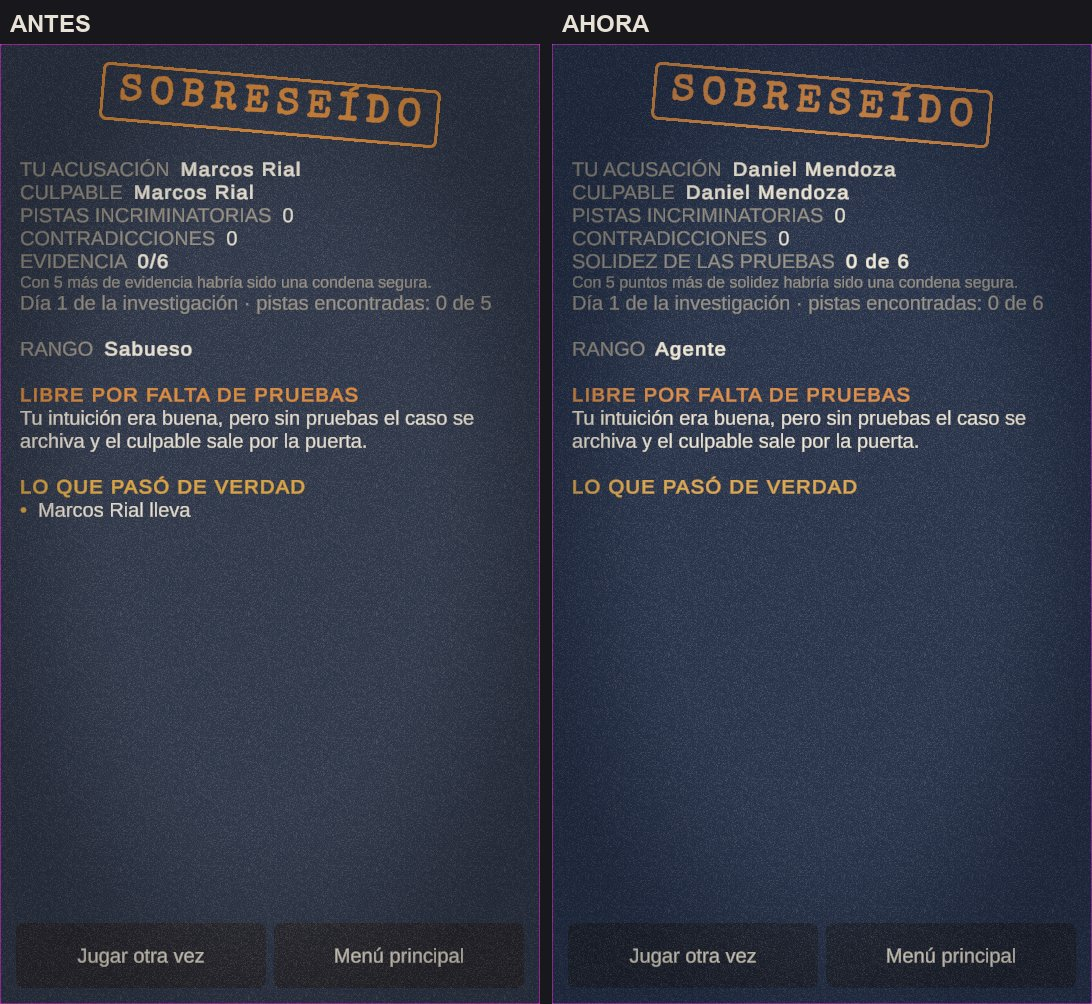
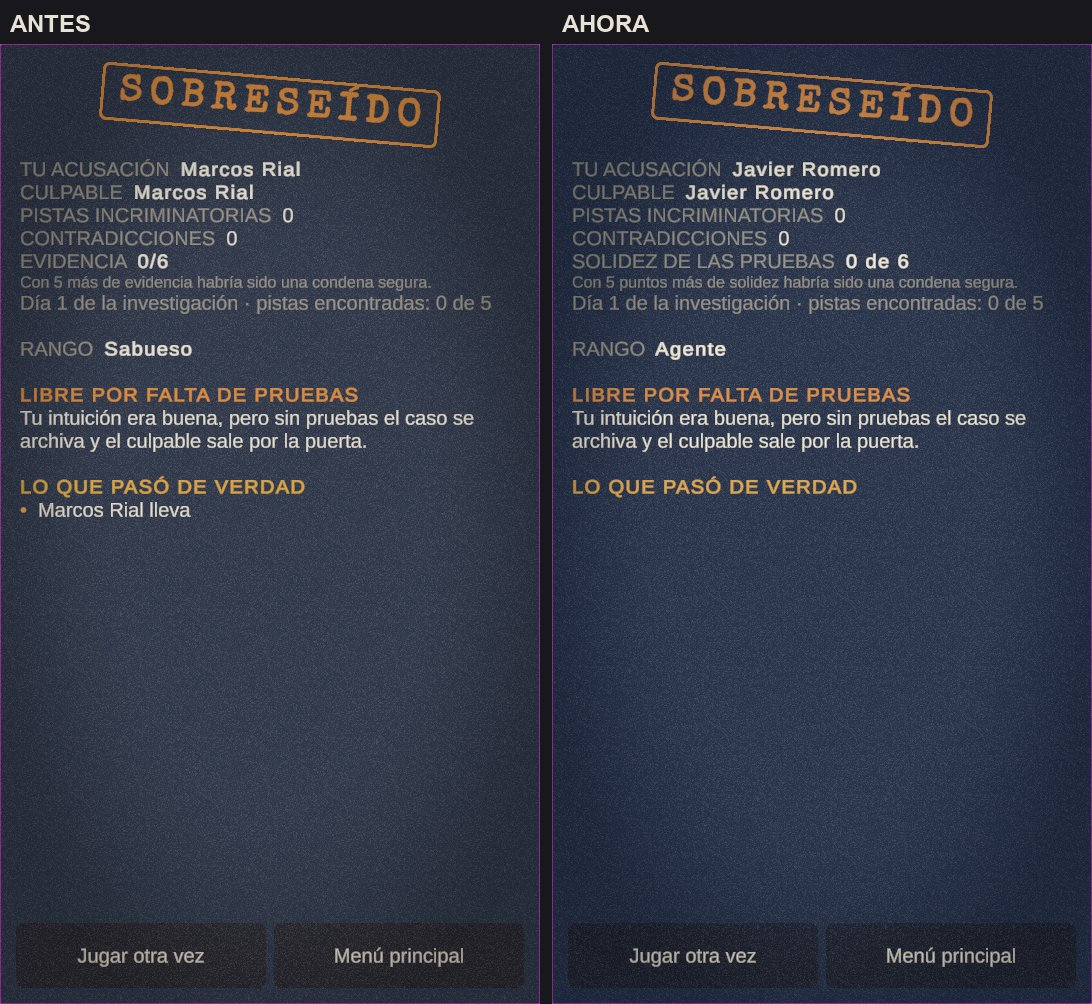
Gallery: sheet 24 (morning reports in the notebook); report gallery table
Claude-Session: https://claude.ai/code/session_01KEoVtmbGPQRPnhweMQeCc5

Changed region(s): [[0.6227, 0.1544, 0.8407, 0.2161]]

diff --git a/Tools/make_gallery_dia3.py b/Tools/make_gallery_dia3.py
@@ -20,7 +20,7 @@ SCREENS = [
     ('12_dialogo', 'dialogo_reiniciar'), ('13_texto_grande', 'texto_grande_interrogatorio'),
     ('14_alto_contraste', 'alto_contraste_interrogatorio'), ('15_emocion', 'emocion_nervioso_1500'),
     ('16_pista', 'pista_1800'), ('17_contradiccion', 'contradiccion_1900'), ('18_tutorial', 'tutorial_preguntar'),
-    ('21_ficha_policial', 'veredicto_ficha'),
+    ('21_ficha_policial', 'veredicto_ficha'), ('24_libreta_partes', 'libreta_partes'),
 ]
 
 

diff --git a/docs/REPORT-DIA3.md b/docs/REPORT-DIA3.md
@@ -45,7 +45,7 @@ jugador nuevo) hasta ~22:00; informe final; limpiar el worktree temporal.
 6. **Bloqueante para Android:** ningún proveedor LLM funciona tal cual en el móvil (decisión 1). APK sin generar (falta el módulo).
 
 ## 2. Galería antes / después
-`docs/screenshots/2026-09-30/galeria/` (22 hojas; se regeneran con `python Tools/make_gallery_dia3.py`).
+`docs/screenshots/2026-09-30/galeria/` (24 hojas; se regeneran con `python Tools/make_gallery_dia3.py`).
 "Antes" = capturas del comienzo del bloque C (visualmente, el final de la noche 2).
 
 | Hoja | Qué cambia |
@@ -62,6 +62,8 @@ jugador nuevo) hasta ~22:00; informe final; limpiar el worktree temporal.
 | 12_dialogo | Un solo aviso de reinicio con botones de acción |
 | 13-14 texto grande / alto contraste | Siguen en AA (test) |
 | 20_personajes | Los 7 retratos: plano 2D frente a relieve 2.5D |
+| 23_notas | Nuevo: tus notas en la libreta, la rueda que tacha tu descarte y el final que lo recuerda |
+| 24_libreta_partes | Nuevo: los partes de la mañana quedan en la libreta |
 
 ## 3. Métricas antes / después
 
